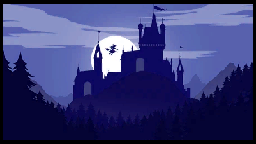
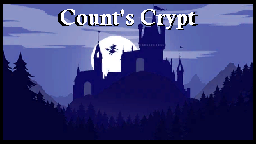
Updates
Platform script
mainmenu colours

Changed region(s): [[0.2188, 0.0556, 0.7812, 0.2222]]

diff --git a/Assets/Scripts/Platform.cs b/Assets/Scripts/Platform.cs
@@ -12,6 +12,12 @@ public class Platform : MonoBehaviour
     public int platformId;
     public bool requiresKey = false;
 
+    [Header("Sprites")]
+    [SerializeField] private Sprite standardSprite;
+    [SerializeField] private Sprite startSprite;
+    [SerializeField] private Sprite crumbleSprite;
+    [SerializeField] private Sprite goalCryptSprite;
+
     [Header("Size")]
     [SerializeField] private float width = 4f;
     [SerializeField] private float height = 1f;
@@ -32,9 +38,23 @@ public class Platform : MonoBehaviour
 
     void OnValidate()
     {
-        width = Mathf.Max(width, 0.1f);
-        height = Mathf.Max(height, 0.1f);
+        //width = Mathf.Max(width, 0.1f);
+        //height = Mathf.Max(height, 0.1f);
+        UpdateSprite();
         UpdateSize();
+    }
+
+    private void UpdateSprite()
+    {
+        if (sr == null) sr = GetComponent<SpriteRenderer>();
+        if (sr == null) return;
+        sr.sprite = type switch
+        {
+            PlatformType.Start => startSprite,
+            PlatformType.Crumble => crumbleSprite,
+            PlatformType.GoalCrypt => goalCryptSprite,
+            _ => standardSprite,
+        };
     }
 
     private void UpdateSize()
@@ -58,6 +78,7 @@ public class Platform : MonoBehaviour
             platformId = nextId++;
         sr = GetComponent<SpriteRenderer>();
         boxCol = GetComponent<BoxCollider2D>();
+        UpdateSprite();
         UpdateSize();
         audioSource = GetComponent<AudioSource>();
         if (audioSource == null && crumbleSound != null)

diff --git a/Assets/Scripts/GameManager.cs b/Assets/Scripts/GameManager.cs
@@ -26,8 +26,9 @@ public class GameManager : MonoBehaviour
     void Start()
     {
         dracula = FindObjectOfType<DraculaController>();
-        if (dracula != null)
-            dracula.OnLanded += HandleLanding;
+        // removed goalCrypt landing check
+        //if (dracula != null)
+        //    dracula.OnLanded += HandleLanding;
     }
 
     void HandleLanding(GameObject platformGO)
